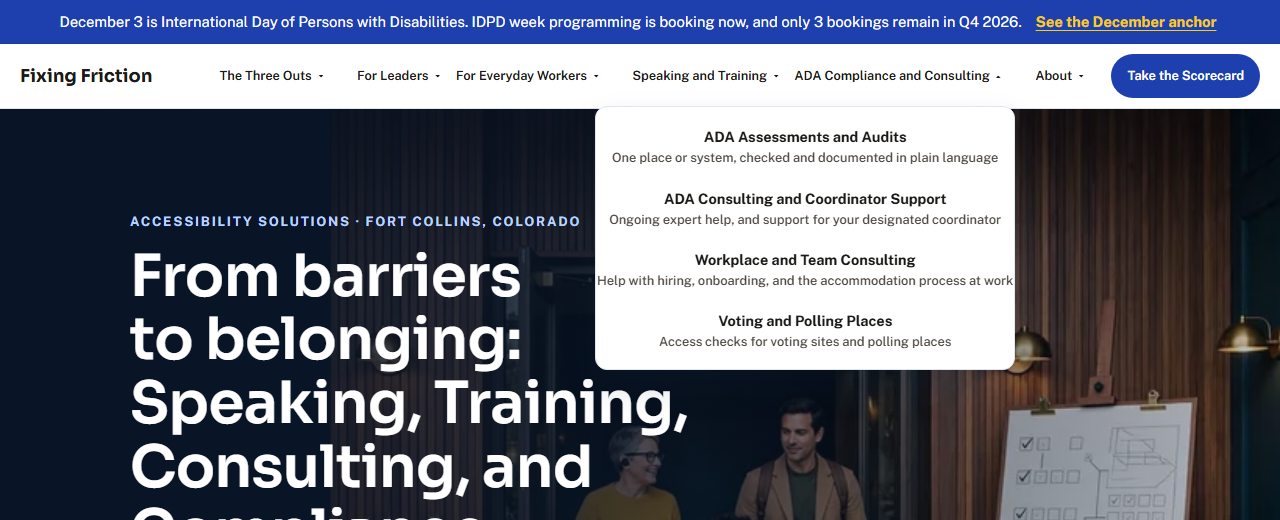
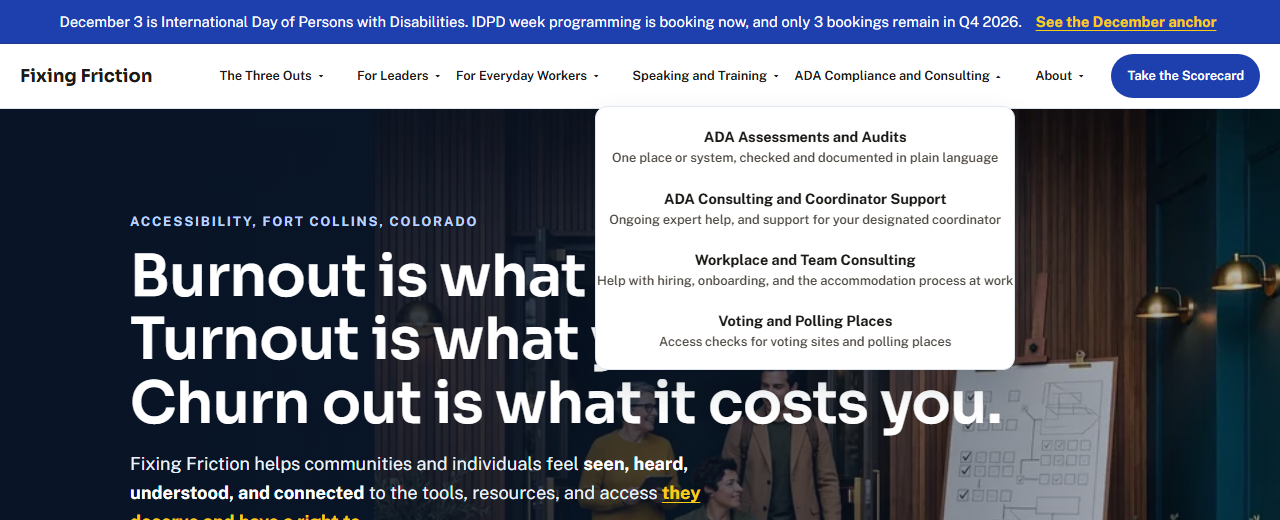
Brief Phase 2: homepage hero wording, self select, Three Outs overview with Burn Out lenses (lens sentences pending approval)

Changed region(s): [[0.0938, 0.2154, 1.0, 1.0], [0.1875, 0.4, 0.4688, 0.4615]]

diff --git a/index.html b/index.html
@@ -1346,6 +1346,40 @@
       .menupanel .menu-set[aria-current="page"]{box-shadow:inset 4px 0 0 var(--accent);}
       .menupanel a.sub{padding-left:18px;}
       .sitemap h3{font-size:.74rem;letter-spacing:.06em;white-space:normal;text-wrap:wrap;}
+
+      /* ===== Brief Phase 2: hero wording, self select, Three Outs overview. White surfaces. ===== */
+      .hero-bleed .hero-h1{max-width:980px;}
+      .hero-bleed-content:has(.hero-h1){max-width:980px;}
+      .hero-bleed .hero-h1 .h1-line{display:block;text-wrap:balance;color:#FFFFFF;}
+      .hero-bleed .hero-services{margin-top:6px;}
+      .ff-ss,.ff-outs{background:#FFFFFF;scroll-margin-top:92px;}
+      .ff-h2{font-size:clamp(1.6rem,3.4vw,2.2rem);line-height:1.15;margin:8px 0 18px;text-wrap:balance;}
+      .ff-ss-grid{display:grid;grid-template-columns:1fr 1fr;gap:20px;align-items:stretch;}
+      .ff-ss-card{display:flex;flex-direction:column;background:#FFFFFF;}
+      .ff-ss-card h3{font-size:1.3rem;text-wrap:balance;}
+      .ff-ss-card .ff-links{margin-top:auto;padding-top:14px;display:flex;flex-direction:column;}
+      .ff-links a,.ff-ctas a{display:inline-flex;align-items:center;min-height:44px;font-weight:700;color:var(--accent-deep);text-decoration:underline;text-underline-offset:3px;width:fit-content;}
+      .ff-links a:hover,.ff-ctas a:hover{color:var(--ink);}
+      .ff-outs > .lede{max-width:46rem;}
+      .ff-stages{display:grid;grid-template-columns:repeat(3,minmax(0,1fr));gap:20px;margin-top:26px;}
+      .ff-stage{background:#FFFFFF;border-top:3px solid var(--ink);padding-top:14px;}
+      .ff-stage h3{font-size:1.35rem;margin:0 0 8px;}
+      .ff-stage .ff-plain{display:block;font-size:.95rem;font-weight:600;color:var(--muted);margin-top:2px;}
+      .ff-ctas{list-style:none;margin:22px 0 0;padding:0;display:flex;flex-wrap:wrap;gap:6px 36px;}
+      .ff-ctas li{display:flex;flex-direction:column;}
+      .ff-ctas .ff-for{font-size:.8rem;font-weight:800;letter-spacing:.1em;text-transform:uppercase;color:var(--muted);}
+      .ff-lenses{margin-top:52px;border-top:1px solid var(--line);padding-top:30px;}
+      .ff-h3{font-size:clamp(1.35rem,2.6vw,1.75rem);line-height:1.2;margin:0 0 10px;text-wrap:balance;}
+      .ff-lenses > .lede{max-width:46rem;}
+      .ff-group{font-size:.8rem;font-weight:800;letter-spacing:.12em;text-transform:uppercase;color:var(--accent-deep);margin:28px 0 12px;}
+      .ff-lens-list{list-style:none;margin:0;padding:0;display:grid;grid-template-columns:repeat(3,minmax(0,1fr));gap:22px;}
+      .ff-lens-list li{background:#FFFFFF;border-left:3px solid var(--line);padding-left:16px;}
+      .ff-lens-list h5,.ff-system h5{font-size:1.1rem;margin:0 0 6px;font-weight:700;}
+      .ff-system{max-width:46rem;background:#FFFFFF;border:1px solid var(--ink);border-radius:var(--radius);padding:20px 24px;margin-top:4px;}
+      .ff-system p + p{margin-top:10px;font-weight:600;}
+      .ff-close{margin-top:40px;font-size:1.2rem;font-weight:700;max-width:40rem;text-wrap:balance;}
+      @media (max-width:900px){.ff-stages{grid-template-columns:1fr;}.ff-lens-list{grid-template-columns:1fr;}}
+      @media (max-width:860px){.ff-ss-grid{grid-template-columns:1fr;}}
 </style>
     <script type="application/ld+json">
     {
@@ -1768,14 +1802,70 @@
           <div class="hero-bleed-shade" aria-hidden="true"></div>
           <div class="hero-bleed-in">
             <div class="hero-bleed-content">
-              <p class="eyebrow">Accessibility Solutions · Fort Collins, Colorado</p>
-              <h1>From barriers to belonging:<br />Speaking, Training, Consulting, and Compliance</h1>
-              <p class="lede">Helping communities and individuals feel <strong>seen, heard, understood, and connected</strong> to the tools, resources, and access <span style="text-decoration:underline;text-underline-offset:3px;">they deserve and have a right to.</span></p>
+              <p class="eyebrow">ACCESSIBILITY, FORT COLLINS, COLORADO</p>
+              <h1 class="hero-h1"><span class="h1-line">Burnout is what they feel.</span> <span class="h1-line">Turnout is what you see.</span> <span class="h1-line">Churn out is what it costs you.</span></h1>
+              <p class="lede">Fixing Friction helps communities and individuals feel <strong>seen, heard, understood, and connected</strong> to the tools, resources, and access <span style="text-decoration:underline;text-underline-offset:3px;">they deserve and have a right to.</span></p>
               <p class="small u01">Matthew Cicanese, ADAC · Certified ADA Coordinator | Accessibility Speaker, Trainer and Consultant · Founder, Fixing Friction</p>
+              <p class="small hero-services">Speaking, Training, Compliance, Consulting</p>
               <div class="btnrow"><a href="#scorecards" class="btn primary" data-go="scorecards">Take the Scorecard</a><a href="#audits" class="btn ghost" data-go="audits">Start with an assessment</a></div>
               <p class="micro">Now booking Q1 2027.<br />Not sure where to start?</p>
             </div>
           </div>
+        </div>
+        <div class="ff-ss" id="start-where">
+          <h2 class="ff-h2" data-otp-label="Pick your door">Start where it is hitting you</h2>
+          <div class="ff-ss-grid">
+            <div class="card ff-ss-card">
+              <h3>I lead a team or an organization</h3>
+              <p>People are burning out, not showing up, or leaving, and you can see it in the numbers. Start with speaking and training for your team, or with an assessment of the place and systems they work in.</p>
+              <p class="ff-links"><a href="#training" data-go="training">Speaking and training for teams</a><a href="#audits" data-go="audits">Start with an assessment</a></p>
+            </div>
+            <div class="card ff-ss-card">
+              <h3>I am an everyday worker</h3>
+              <p>A normal day costs more than it should, at work and at home. Whether you are on your own or holding a family together, start here for practical help in plain language.</p>
+              <p class="ff-links"><a href="#inside" data-go="inside">Inside Fixing Friction</a><a href="#scorecards" data-go="scorecards">Take the Scorecard</a></p>
+            </div>
+          </div>
+        </div>
+        <div class="ff-outs" id="three-outs">
+          <p class="eyebrow">WHAT HAPPENS WHEN FRICTION BUILDS</p>
+          <h2 class="ff-h2" data-otp-label="The Three Outs">People do not leave all at once.</h2>
+          <p class="lede">First they burn out. Then they stop turning out. Then they churn out. It happens in teams, in organizations, and in whole communities, and it starts earlier than most leaders think.</p>
+          <div class="ff-stages">
+            <div class="ff-stage">
+              <h3>Burn Out<span class="vh">: </span><span class="ff-plain">What a person feels</span></h3>
+              <p>Burn out is what happens inside one person when daily friction uses up their capacity. They are still there, but they have nothing left to give.</p>
+            </div>
+            <div class="ff-stage">
+              <h3>Turn Out<span class="vh">: </span><span class="ff-plain">What you start to see</span></h3>
+              <p>Turn out is when people stop showing up before they quit. Meetings get thinner, volunteering dries up, and the people you count on go quiet.</p>
+            </div>
+            <div class="ff-stage">
+              <h3>Churn Out<span class="vh">: </span><span class="ff-plain">What it costs you</span></h3>
+              <p>Churn out is when people leave for good. You lose their skill, their relationships, and everything they knew, and you pay to replace all of it.</p>
+            </div>
+          </div>
+          <ul class="ff-ctas">
+            <li><span class="ff-for">For leaders</span><a href="#start" data-go="start">Start with a pilot session</a></li>
+            <li><span class="ff-for">For everyday workers</span><a href="#inside" data-go="inside">Inside Fixing Friction</a></li>
+          </ul>
+          <div class="ff-lenses">
+            <h3 class="ff-h3">Burn Out does not look the same on everyone</h3>
+            <p class="lede">Three lenses people live with, and one system they live inside. Most people here will recognise more than one.</p>
+            <h4 class="ff-group">Lenses you live with</h4>
+            <ul class="ff-lens-list">
+              <li><h5>Disability</h5><p>Doors, forms, and meetings that were not built with you in mind take extra effort every day.</p></li>
+              <li><h5>Neurodivergence</h5><p>Noise, unclear instructions, and constant switching can use up a mind that works differently long before the day is over.</p></li>
+              <li><h5>Chronic Health Conditions</h5><p>Managing a health condition every day leaves less energy for everything else, and work rarely plans for that.</p></li>
+            </ul>
+            <h4 class="ff-group">The system you live inside</h4>
+            <div class="ff-system">
+              <h5>Broken Systems at Work</h5>
+              <p>Call it what it is: corporate bullshit. The meetings about meetings, the tools that fight each other, the rules nobody can explain.</p>
+              <p>Friction is a systems mismatch, never a character flaw.</p>
+            </div>
+          </div>
+          <p class="ff-close">None of this starts with leaving. It starts with friction you can find and fix.</p>
         </div>
                 <div class="logo-banner" role="group" aria-label="Matthew Cicanese's notable clients">
           <p class="strip-lead">Matthew&rsquo;s notable clients</p>
